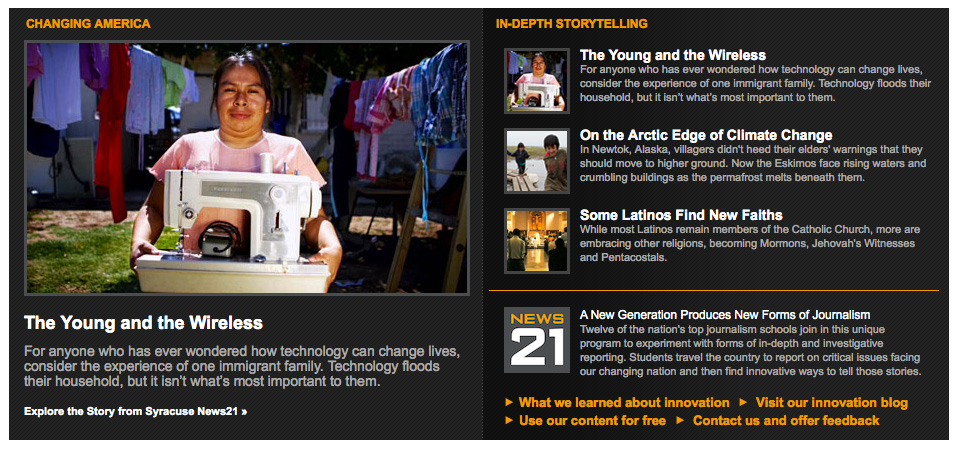
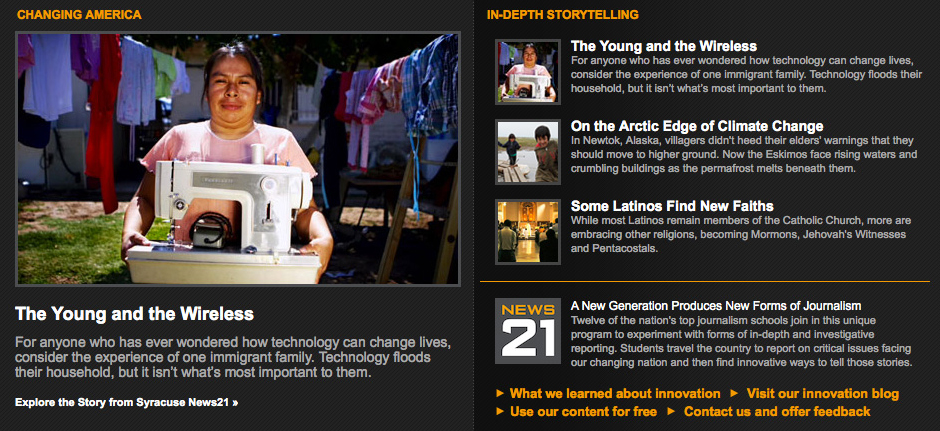
adjusted widths

diff --git a/news21skin.css b/news21skin.css
@@ -32,7 +32,7 @@ display:block;
 	background-color:#AFAFAF;
 	background:url('http://assets.news21.com/news21-header.jpg') no-repeat;
 	height:39px;
-	margin:0px 0px 0px 10px;
+	margin:0px 0px 0px 0px;
 }
 
 #news21-header.arizonastate{ background:url('http://assets.news21.com/news21-header-arizonastate.jpg') no-repeat; }
@@ -48,11 +48,11 @@ display:block;
 	width:940px;
 	background:url('http://assets.news21.com/news21-menu.jpg') no-repeat;
 	height:29px;
-	margin:0px 0px 0px 10px;
+	margin:0px 0px 0px 0px;
 }
 
 #news21-footer{
-	width:960px;
+	width:940px;
 }
 
 #news21-footer h3 {
@@ -67,12 +67,12 @@ display:block;
 }
 
 #news21-footer-top{ background:url('http://assets.news21.com/news21-footer-top.gif') no-repeat; height:40px;}
-#news21-footer-content{ padding: 20px 40px; }
+#news21-footer-content{ padding: 20px 30px; }
 #news21-footer-copy{ 
 	background:url('http://assets.news21.com/news21-footer-bottom.gif') no-repeat; 
 	height:40px;
 	margin-top:10px;
-	padding:10px 0px 0px 20px;
+	padding:10px 0px 0px 10px;
 	color:gray;
 	font-size:10px;
 	font-family:Verdana,Arial,Helvetica,Sans-Serif;

diff --git a/demo.html b/demo.html
@@ -7,7 +7,7 @@
 	<meta name="author" content="bhalle">
 	<!-- Date: 2010-01-06 -->
 	
-	<link rel="stylesheet" href="http://assets.news21.com/news21skin.css" type="text/css" media="screen" />
+	<link rel="stylesheet" href="news21skin.css" type="text/css" media="screen" />
 	<script type="text/javascript" src="http://assets.news21.com/news21skin.js"></script>
 
 	<style type="text/css" media="screen">
@@ -18,7 +18,7 @@
 	<div id="news21-header"></div>
 	<div id="news21-menu"></div>
 	
-	<div id="fake1"><img src="hero.jpg"></div>
+	<div id="fake1" style="padding-top:10px;padding-bottom:10px;"><img src="hero.jpg"></div>
 		
 	<div id="news21-footer"></div>
 	

diff --git a/index.html b/index.html
@@ -17,7 +17,7 @@ BASED OFF OF 960PX WIDTH
 
 HEADER
 <br/>
-&lt;div id="news21-header" class="asu"&gt;&lt;/div&gt;
+&lt;div id="news21-header"&gt;&lt;/div&gt;
 
 <br/><br/>
 
